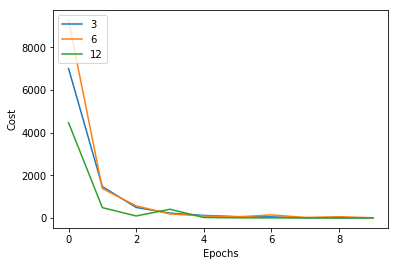
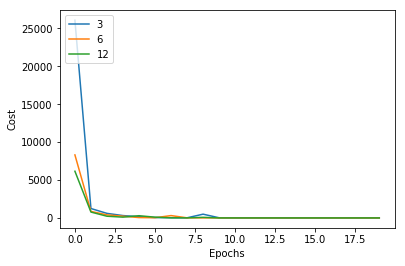
cmp_filters and results

diff --git a/cmp_filter_size.py b/cmp_filter_size.py
@@ -41,7 +41,7 @@ def main():
         initialization="xavier_glorot",
         regularization="dropout"
     )
-    cost3, accuracy3 = nn3.train(X_train, y_train, X_validation, y_validation, batchSize=128, epochs=10)
+    cost3, accuracy3 = nn3.train(X_train, y_train, X_validation, y_validation, batchSize=128, epochs=20)
 
     # 6X6 filters
     nn6 = CNN(
@@ -56,7 +56,7 @@ def main():
         regularization="dropout"
     )
 
-    cost6, accuracy6 = nn6.train(X_train, y_train, X_validation, y_validation, batchSize=128, epochs=10)
+    cost6, accuracy6 = nn6.train(X_train, y_train, X_validation, y_validation, batchSize=128, epochs=20)
 
     # 12x12 filters
     nn12 = CNN(
@@ -71,7 +71,7 @@ def main():
         regularization="dropout"
     )
 
-    cost12, accuracy12 = nn12.train(X_train, y_train, X_validation, y_validation, batchSize=128, epochs=10)
+    cost12, accuracy12 = nn12.train(X_train, y_train, X_validation, y_validation, batchSize=128, epochs=20)
     
     plt.xlabel("Epochs")
     plt.ylabel("Cost")
